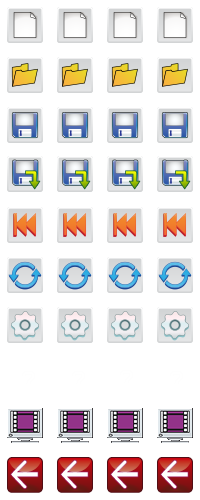
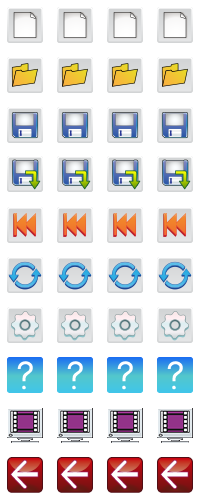
help button and popup

diff --git a/public/src/js/app/commands/helpcommand.js b/public/src/js/app/commands/helpcommand.js
@@ -1,6 +1,10 @@
-define(['phasercomponents'],
+define(['phasercomponents', 'app/views/popups/growl',
 
-function(PhaserComponents) {
+	'app/models/modelconsts', 'app/consts/challengedata', 'app/assets'],
+
+function(PhaserComponents, Growl,
+
+	ModelConsts, ChallengeData, Assets) {
 	
 	"use strict";
 	
@@ -11,7 +15,10 @@ function(PhaserComponents) {
 	PhaserComponents.Utils.extends(HelpCommand, PhaserComponents.Commands.AbstractCommand);
 
 	HelpCommand.prototype.execute = function(){
-		window.alert("help");
+		var index = this.modelFacade.get(ModelConsts.CHALLENGE).get();
+		if(index !== null){
+			this.alertManager.make(Growl, {"title":"Challenge", "label":ChallengeData.MESSAGES[index], "sfx":Assets.SOUNDS[2]}, null);
+		}
 	};
 	
   	return HelpCommand;

diff --git a/public/src/js/app/commands/choosechallengecommand.js b/public/src/js/app/commands/choosechallengecommand.js
@@ -24,7 +24,7 @@ Growl, Assets, ModelConsts, ChallengeData) {
 		this.modelFacade.setData(json);
 		this.eventDispatcher.trigger({"type":Events.SHOW_ALL});
 		setTimeout(function(){
-			that.alertManager.make(Growl, {"title":"Challenge", "label":ChallengeData.MESSAGES[data.selection], "sfx":Assets.SOUNDS[2]}, null);
+			that.eventDispatcher.trigger({"type":HELP});
 		}, 400);
 	};
 	
